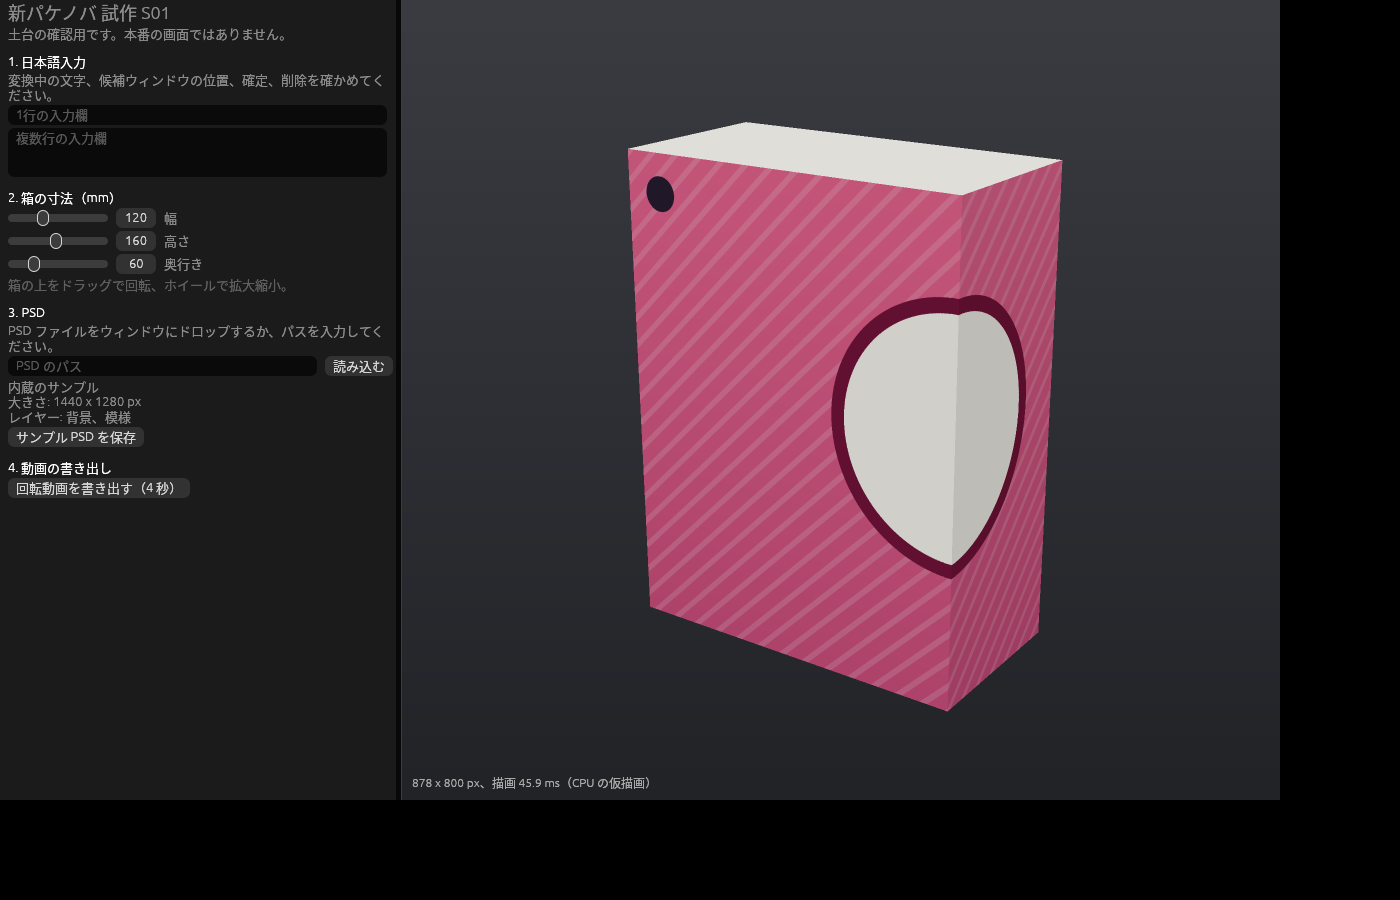
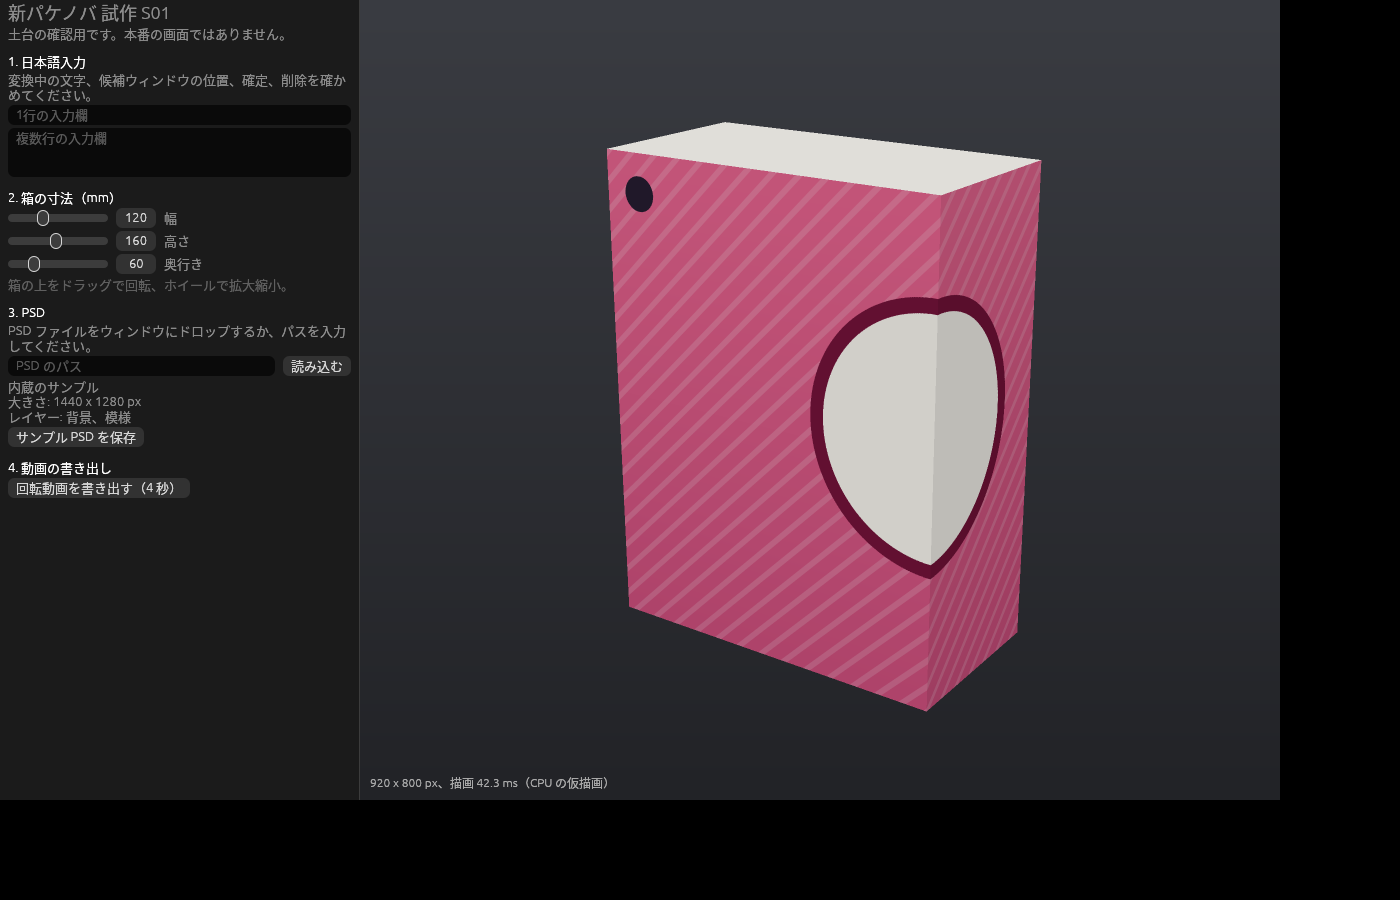
試作 S01: 左のパネルが広がり続ける不具合を直す
PSD のパス欄の幅を先に見積もっていたため、フォントによって「読み込む」ボタンが
はみ出し、パネルが毎フレーム広がって箱の表示が消えていた（Windows で発生）。

- ボタンを先に右端へ置き、残りの幅を入力欄に渡す
- パネルの幅を固定する
- 常時再描画の状態で、旧版では再現し、修正版では広がらないことを Linux で確認

Claude-Session: https://claude.ai/code/session_01KvnvfR9d7b3yKRKXYXbVCX

diff --git a/spikes/s01-foundation/src/app.rs b/spikes/s01-foundation/src/app.rs
@@ -177,14 +177,18 @@ impl App {
 
         ui.strong("3. PSD");
         ui.label("PSD ファイルをウィンドウにドロップするか、パスを入力してください。");
-        ui.horizontal(|ui| {
-            let button_width = 70.0;
-            ui.add(egui::TextEdit::singleline(&mut self.psd_path).hint_text("PSD のパス").desired_width(ui.available_width() - button_width));
-            if ui.button("読み込む").clicked() {
-                let path = PathBuf::from(self.psd_path.trim().trim_matches('"'));
-                self.open_psd_path(&path);
-            }
+        // ボタンを先に右端へ置き、残りの幅を入力欄に渡す。
+        // 入力欄の幅を先に見積もると、フォントによってはボタンがはみ出し、パネルが毎フレーム広がる。
+        let mut load_clicked = false;
+        let row = egui::vec2(ui.available_width(), ui.spacing().interact_size.y);
+        ui.allocate_ui_with_layout(row, egui::Layout::right_to_left(egui::Align::Center), |ui| {
+            load_clicked = ui.button("読み込む").clicked();
+            ui.add(egui::TextEdit::singleline(&mut self.psd_path).hint_text("PSD のパス").desired_width(f32::INFINITY));
         });
+        if load_clicked {
+            let path = PathBuf::from(self.psd_path.trim().trim_matches('"'));
+            self.open_psd_path(&path);
+        }
         ui.label(&self.psd_info);
         if ui.button("サンプル PSD を保存").clicked() {
             self.sample_note = match make_sample_psd(self.dims).and_then(|b| std::fs::write(SAMPLE_PSD_NAME, b).map_err(|e| e.to_string())) {
@@ -271,8 +275,9 @@ impl eframe::App for App {
             self.open_psd_path(path);
         }
 
-        egui::Panel::left("controls").default_size(360.0).show(ui, |ui| {
-            egui::ScrollArea::vertical().show(ui, |ui| self.controls(ui));
+        // 幅は固定する。中身がはみ出してもパネルが広がらないようにするため。
+        egui::Panel::left("controls").resizable(false).exact_size(360.0).show(ui, |ui| {
+            egui::ScrollArea::vertical().auto_shrink([false, false]).show(ui, |ui| self.controls(ui));
         });
         egui::CentralPanel::default().frame(egui::Frame::NONE).show(ui, |ui| self.viewport(ui));
     }
